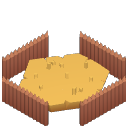
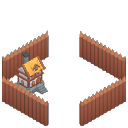
Kara Kale finali, krallık yeniden doğuşu ve güçlenmesi, yavaş ilerleme, inşaat önceliği/iptali, çit onaylı çizim + yönlü çit/kapı, atlı okçu, ağıl
Claude-Session: https://claude.ai/code/session_016v4arUu98FxXGpQTMG1MYt

Changed region(s): [[0.125, 0.4062, 0.875, 0.875]]

diff --git a/js/ui.js b/js/ui.js
@@ -46,7 +46,9 @@ function updHint(){
   $('hinttxt').textContent=(UI.place.mv?d.n+' taşı: yeni yeri seç':UI.place.t==='tc'&&!S.founded?'Köyün kurulacağı yeri seç':d.n+': yeri seç')+(UI.place.x==null?' (haritaya dokun)':'');
   $('hintbtn').innerHTML=btn('✔ Onayla','confirm')+btn('✖ İptal','cancel');
  }else if(UI.road){
-  hn.style.display='block';$('hinttxt').textContent=UI.wall?BT[UI.wall].n+': parmağını sürükleyerek hat çiz, kapı için tek tek dokun (kare başı '+Object.keys(BT[UI.wall].cost).map(k=>RI[k]+BT[UI.wall].cost[k]).join(' ')+')':'Yol: haritada parmağını sürükle (kare başı 1 odun)';$('hintbtn').innerHTML=btn('✖ Bitti','cancel');
+  hn.style.display='block';
+  if(UI.wall){const n=(UI.wsel||[]).length,c=BT.duvar.cost;$('hinttxt').textContent='Çit: parmağınla hattı çiz ('+n+' kare'+(n?' · '+Object.keys(c).map(k=>RI[k]+c[k]*n).join(' '):'')+'). Onaylayınca inşa edilir. Kapı için Yapılar\'dan Kapı seç.';$('hintbtn').innerHTML=btn('✔ İnşa et','wconfirm',null,!n)+btn('↩ Geri al','wundo',null,!n)+btn('✖ Çık','wexit');}
+  else{$('hinttxt').textContent='Yol: haritada parmağını sürükle (kare başı 1 odun)';$('hintbtn').innerHTML=btn('✖ Bitti','cancel');}
  }else hn.style.display='none';
 }
 function selInfo(){
@@ -182,6 +184,7 @@ function pSel(){
  const b=BM.get(UI.sel.id);if(!b)return '';
  const d=BT[b.t];
  let h='<h4>'+d.ic+' '+d.n+(b.done?'':' (inşaat %'+Math.round(b.prog*100)+')')+'</h4><small>'+d.d+'<br>❤ '+Math.ceil(b.hp)+'/'+b.mhp+(b.fire>0?' · 🔥 yanıyor':'')+'</small>';
+ if(b.team==='p'&&!b.done){h+='<div class="row">'+btn(b.pri?'⭐ Öncelik: AÇIK':'☆ Öncelikli inşa et','pri',b.id)+btn('✖ İptal ('+(b.prog<0.02?'tam iade':'%50 iade')+')','cancelb',b.id)+'</div><small>Öncelikli binayı işçiler ve taşıyıcılar diğerlerinden önce yapar.</small>';}
  if(b.team==='p'&&b.done&&(b.t==='oduncu'||b.t==='maden')){
   const jid=b.t==='oduncu'?'lum':'mine',have=jobCount(jid),mine=S.units.filter(u=>u.wb===b.id&&u.job===jid&&!u.dead).length;
   h+='<div>👷 Çalışan: <b>'+mine+'/'+SLOTS[b.t]+'</b> · 📦 Kulübe stoğu: '+Math.round(b.buf||0)+'/'+HUTCAP+' <small>(dolunca işçiler depoya taşır)</small></div>';
@@ -243,10 +246,13 @@ function act(a,v,w,el){
   case 'save':log(saveGame()?'💾 Oyun kaydedildi.':'⛔ Kaydedilemedi.');break;
   case 'found':UI.place={t:'tc',x:null,y:null};{const u=S.units.find(u=>u.team==='p');if(u){UI.place.x=Math.floor(u.x)-1;UI.place.y=Math.floor(u.y)+2;}}UI.tab=null;updPanel(true);updHint();break;
   case 'selall':UI.sel={kind:'u',ids:S.units.filter(u=>u.team==='p').map(u=>u.id)};break;
-  case 'place':if(v==='duvar'||v==='kapi'){UI.wall=v;UI.road=true;UI.place=null;UI.tab=null;updPanel(true);updHint();break;}UI.wall=null;UI.place={t:v,x:null,y:null};UI.road=false;UI.tab=null;updPanel(true);updHint();break;
+  case 'place':if(v==='duvar'){UI.wall=v;UI.road=true;UI.place=null;UI.tab=null;UI.wsel=[];UI.wstack=[];UI.wlx=null;updPanel(true);updHint();break;}UI.wall=null;UI.place={t:v,x:null,y:null};UI.road=false;UI.tab=null;updPanel(true);updHint();break;
   case 'confirm':doConfirm();break;
   case 'move':{const b=BM.get(+v);if(b&&b.done&&b.team==='p'&&b.t!=='tc'){UI.place={t:b.t,mv:b.id,x:b.x,y:b.y};UI.sel=null;UI.tab=null;updPanel(true);updHint();}break;}
-  case 'cancel':UI.place=null;UI.road=false;UI.wall=null;updHint();break;
+  case 'wconfirm':{let n=0,fail=0;for(const k of (UI.wsel||[])){const x=k%MW,y=(k/MW)|0;if(!canPlace('duvar',x,y)){fail++;continue;}if(!afford(BT.duvar.cost)){log('⛔ Kaynak yetersiz, '+(UI.wsel.length-n-fail)+' kare kaldı.');break;}if(placeBuilding('duvar',x,y))n++;}UI.wsel=[];UI.wstack=[];UI.road=false;UI.wall=null;log('🧱 '+n+' çit karesi inşaata başladı.');updHint();updPanel(true);break;}
+  case 'wundo':{const b=(UI.wstack||[]).pop();if(b)UI.wsel=UI.wsel.filter(k=>!b.includes(k));else UI.wsel=[];updHint();break;}
+  case 'wexit':UI.wsel=[];UI.wstack=[];UI.road=false;UI.wall=null;updHint();updPanel(true);break;
+  case 'cancel':UI.place=null;UI.road=false;UI.wall=null;UI.wsel=[];updHint();break;
   case 'road':UI.wall=null;UI.road=true;UI.place=null;UI.tab=null;updPanel(true);updHint();break;
   case 'train':{const b=BM.get(+w)||bestTrainer(v);if(b)enqueue(b,v,1);break;}
   case 'train5':{const b=BM.get(+w)||bestTrainer(v);if(b)enqueue(b,v,5);break;}
@@ -273,6 +279,8 @@ function act(a,v,w,el){
   case 'mk':{const b=BM.get(+v);if(b&&b.t==='demirci'){b.mk=w;log('⚒ Demirhane üretimi: '+({auto:'otomatik',alet:'alet',silah:'silah',zirh:'zırh',off:'durduruldu'})[w]+'.');}updPanel(true);break;}
   case 'ore':{const b=BM.get(+v);if(b&&b.t==='maden'){b.ore=w;for(const u of S.units)if(u.wb===b.id&&u.job==='mine'){u.ti=-1;u.carry=0;u.st='idle';u.path=null;}log('⛏ Madenci kulübesi artık '+RN[w]+' çıkaracak.');}updPanel(true);break;}
   case 'upg':{const b=BM.get(+v);if(b&&UPG[b.t]&&!b.lvl&&UPG[b.t].age<=S.age&&afford(UPG[b.t].cost)){pay(UPG[b.t].cost);b.lvl=1;b.hp=Math.max(b.hp,b.mhp);log('⬆ '+UPG[b.t].n+' tamamlandı.',b.x,b.y);}updPanel(true);break;}
+  case 'pri':{const b=BM.get(+v);if(b){b.pri=!b.pri;}updPanel(true);break;}
+  case 'cancelb':{const b=BM.get(+v);if(b){cancelBuild(b);UI.sel=null;}updPanel(true);break;}
   case 'demolish':{const b=BM.get(+v);if(b){demolish(b);UI.sel=null;}updPanel(true);break;}
  }
  buildBar();updPanel(true);

diff --git a/js/sprites.js b/js/sprites.js
@@ -2,11 +2,11 @@
 // ===== MINIFOLKS SPRITE ANİMASYONLARI (32x32 kareli sayfalar) =====
 // Satırlar: 0 bekle(4), 1 yürü(6), 2 eylem(3: saldırı/çalışma). Atlılarda eylem satırı 3.
 const MF={},MFT=new Map();
-const MFN=['VillagerMan','VillagerWoman','Peasant','Worker','OldMan','OldWoman','NobleMan','NobleWoman','Princess','Queen','SpearMan','SwordMan','ArcherMan','CrossBowMan','HalberdMan','ShieldMan','CavalierMan','HorseMan','KingMan','PrinceMan'];
+const MFN=['VillagerMan','VillagerWoman','Peasant','Worker','OldMan','OldWoman','NobleMan','NobleWoman','Princess','Queen','SpearMan','SwordMan','ArcherMan','MountedArcher','CrossBowMan','HalberdMan','ShieldMan','CavalierMan','HorseMan','KingMan','PrinceMan'];
 MFN.forEach(n=>{const i=new Image();i.src='img/mf/Mini'+n+'.png';MF[n]=i;});
-const MFCNT={KingMan:[4,5,6],CavalierMan:[8,6,3],HorseMan:[8,6,3],PrinceMan:[4,6,5]};
+const MFCNT={MountedArcher:[8,6,3],KingMan:[4,5,6],CavalierMan:[8,6,3],HorseMan:[8,6,3],PrinceMan:[4,6,5]};
 const MFVIL=['VillagerMan','VillagerWoman','Peasant','Worker','VillagerMan','VillagerWoman','OldMan','OldWoman'];
-const MFSOL={mizrakli:'SpearMan',kilic:'SwordMan',okcu:'ArcherMan',atliokcu:'HorseMan',atli:'CavalierMan',top:'HalberdMan'};
+const MFSOL={mizrakli:'SpearMan',kilic:'SwordMan',okcu:'ArcherMan',atliokcu:'MountedArcher',atli:'CavalierMan',top:'HalberdMan'};
 const MFB={haydut:'SwordMan',haydutokcu:'CrossBowMan',haydutatli:'CavalierMan',haydutreis:'ShieldMan'};
 function mfSheet(name,tint,al){
  const im=MF[name];if(!im||!im.complete||!im.naturalWidth)return null;
@@ -58,7 +58,7 @@ drawUnit=function(u){
  if(u.t==='top')return drawCannon(u);
  const lk=mfLook(u),sh=lk?mfSheet(lk[0],lk[1],lk[2]):null;
  if(!sh)return _drawUnitOld(u);
- const name=lk[0],mounted=name==='CavalierMan'||name==='HorseMan';
+ const name=lk[0],mounted=name==='CavalierMan'||name==='HorseMan'||name==='MountedArcher';
  // yön ve hareket
  const dx=u.x-(u.lx==null?u.x:u.lx);if(Math.abs(dx)>0.002)u.fdir=dx<0?-1:1;
  const moved=Math.hypot(dx,u.y-(u.ly==null?u.y:u.ly))>0.002;u.lx=u.x;u.ly=u.y;
@@ -78,14 +78,6 @@ drawUnit=function(u){
  ctx.imageSmoothingEnabled=false;
  ctx.drawImage(sh,fr*32,row*32,32,32,-size/2,0,size,size);
  if(u.fl&&S.t-u.fl<0.15){ctx.globalAlpha=0.4;ctx.fillStyle='#fff';ctx.fillRect(-size*0.2,size*0.35,size*0.4,size*0.55);ctx.globalAlpha=1;}
- if(u.t==='atliokcu'){ // atlı okçu: yay çiz
-  ctx.save();ctx.translate(-size/2,0);ctx.scale(size/32,size/32);
-  const pull=attacking?3:0;
-  ctx.strokeStyle='#5b3a1a';ctx.lineWidth=1.6;ctx.beginPath();ctx.arc(21,15,5.5,-1.15,1.15);ctx.stroke();
-  ctx.strokeStyle='#e8e0c8';ctx.lineWidth=0.7;ctx.beginPath();ctx.moveTo(21+5.5*Math.cos(-1.15),15+5.5*Math.sin(-1.15));ctx.lineTo(21-pull,15);ctx.lineTo(21+5.5*Math.cos(1.15),15+5.5*Math.sin(1.15));ctx.stroke();
-  if(attacking){ctx.strokeStyle='#d8c8a0';ctx.lineWidth=0.9;ctx.beginPath();ctx.moveTo(21-pull,15);ctx.lineTo(29,15);ctx.stroke();}
-  ctx.restore();
- }
  ctx.restore();
  if(u.st==='sleep')ctx.drawImage(spr('💤'),u.x+0.1,u.y-0.9,0.5,0.5);
  if(u.wnd)ctx.drawImage(spr('🩹'),u.x+0.1,u.y-0.9,0.5,0.5);
@@ -93,4 +85,36 @@ drawUnit=function(u){
  if(u.hp<u.mhp){ctx.fillStyle='#000a';ctx.fillRect(u.x-0.3,top-0.05,0.6,0.1);ctx.fillStyle=u.hp/u.mhp>0.4?'#4caf50':'#e53935';ctx.fillRect(u.x-0.3,top-0.05,0.6*u.hp/u.mhp,0.1);}
  if(u.team==='p'&&u.t==='koylu'&&S.founded&&u.job){const j=JOBS.find(j=>j.id===u.job);if(j)ctx.drawImage(spr(j.ic),u.x+0.2,u.y-0.95,0.36,0.36);}
  if(u.carry>0.5)ctx.drawImage(spr('📦'),u.x-0.6,u.y-0.15,0.32,0.32);
+};
+
+// ===== ÇİT / KAPI: komşulara göre yön seçimi =====
+function wallAt(x,y){
+ if(!inMap(x,y))return false;const id=OCC[y*MW+x];if(!id)return false;
+ const o=BM.get(id);return !!(o&&(o.t==='duvar'||o.t==='kapi')&&o.team==='p');
+}
+const _drawBuildingOld=drawBuilding;
+drawBuilding=function(b){
+ if(b.t!=='duvar'&&b.t!=='kapi'){_drawBuildingOld(b);
+  if((b.t==='agil'||b.t==='ahir')&&b.done&&b.team==='p'){
+   const an=b.t==='agil'?['🐑','🐑','🐏']:['🐎','🐄','🐎'],T2=(S.t||0)*0.6+b.id;
+   an.forEach((e,i)=>{const ax=b.x+b.w*(0.55+0.2*Math.sin(T2+i*2.1))-0.17,ay=b.y+b.h*(0.62+0.12*Math.cos(T2*0.8+i*1.7))-0.17;ctx.drawImage(spr(e),ax,ay,0.34,0.34);});
+  }if(b.pri&&!b.done)ctx.drawImage(spr('⭐'),b.x+b.w-0.5,b.y,0.5,0.5);return;}
+ const x=b.x,y=b.y,L=wallAt(x-1,y),R=wallAt(x+1,y),U=wallAt(x,y-1),D=wallAt(x,y+1);
+ let tags=[];
+ if(L||R)tags.push('h');
+ if(U||D){if(b.t==='kapi'&&tags.length===0)tags.push('v');else if(b.t!=='kapi')tags.push('v');}
+ if(!tags.length){
+  const a=wallAt(x-1,y-1),c=wallAt(x+1,y+1),e=wallAt(x+1,y-1),f=wallAt(x-1,y+1);
+  if(a||c)tags.push('d1');else if(e||f)tags.push('d2');else tags.push('h');
+ }
+ ctx.globalAlpha=b.done?1:0.5;
+ for(const tg of tags){
+  const im=img('s_'+b.t+'_'+tg);
+  if(im)ctx.drawImage(im,x-0.125,y-0.125,1.25,1.25);
+  else{ctx.fillStyle='#8a5a2a';ctx.fillRect(x+0.1,y+0.1,0.8,0.8);}
+ }
+ ctx.globalAlpha=1;
+ if(b.team==='p'){ctx.fillStyle=TEAMCOL.p;ctx.fillRect(x+0.04,y+0.04,0.16,0.16);}
+ if(b.pri){ctx.drawImage(spr('⭐'),x,y,0.45,0.45);}
+ if(!b.done){ctx.fillStyle='#000a';ctx.fillRect(x+0.1,y+0.8,0.8,0.14);ctx.fillStyle='#ffd23c';ctx.fillRect(x+0.1,y+0.8,0.8*b.prog,0.14);}
 };

diff --git a/js/story.js b/js/story.js
@@ -10,11 +10,35 @@ const BEATS=[
  {id:'k1',ok:()=>S.kings.some(k=>k.pact),t:'🕊 Komşuların Gözü',x:'Elçilik sayesinde komşu krallıklarla yazışıyorsun. Bertram uyarıyor: "Maldric onlara da elçi gönderdi. Kimi korkutacak, kimi satın alacak. Dostlarını hediyelerle ve sözünle yanında tut."',b:[{t:'Anladım'}]},
  {id:'r2',ok:()=>S.rank>=2,t:'🦅 Maldric\'in Elçisi',x:'Şehir ilan edince Maldric\'in elçisi kapıda: "Lord Maldric büyük gönüllüdür. Tacı bırakıp sessiz bir ömür sürmeni ister. Karşılığında 400 altın ve dokunulmazlık."',b:[{t:'Reddet — "Aldora\'nın varisi pazarlık yapmaz"',fn:()=>{S.sf.refused=1;S.happy=Math.min(100,S.happy+8);log('🔥 Elçi öfkeyle ayrıldı. Maldric\'in gazabı yaklaşıyor.');S.raidAt=Math.min(S.raidAt,S.day+3);}},{t:'Kabul et (+400 💰, halk küsüyor)',fn:()=>{addRes('gold',400);S.happy=Math.max(0,S.happy-18);S.sf.bribed=1;log('💰 Altın aldın ama halkın gözünde değerin düştü.');}}]},
  {id:'a3',ok:()=>S.age>=3,t:'🌑 Karanlık Bir Haber',x:'Orta Çağ\'a girdin ve gece nöbetçileri dağlardan gelen meşaleleri sayıyor. Casuslar fısıldıyor: "Maldric büyük bir ordu topluyor. Hedefi Aldora\'yı geri alan değil, onu doğuran köy."\nSurlarını sağlamlaştır, kapıları kapat; kapılar yalnızca halkın için açılır.',b:[{t:'Hazırlan'}]},
- {id:'l3',ok:()=>S.rank>=3,t:'🏰 Aldora\'nın Halkı',x:'Lordluk ilan edilince haber Aldora\'ya ulaştı. Maldric\'in zulmünden kaçan yüzlerce kişi yollara düştü. Dağın ardından uzun bir kafile geliyor: "Tacın sahibi yaşıyor!"',b:[{t:'Kapıları aç',fn:()=>{const tc=mainTC();if(tc){for(let i=0;i<6;i++){const p=spawnPos(tc);mkUnit('koylu','p',p.x,p.y,{});}}S.happy=Math.min(100,S.happy+6);log('👨👩👧 Aldora\'dan 6 kişi köye sığındı.');}}]},
+ {id:'l3',ok:()=>S.rank>=3,t:'🏰 Aldora\'nın Halkı',x:'Lordluk ilan edilince haber Aldora\'ya ulaştı. Maldric\'in zulmünden kaçan yüzlerce kişi yollara düştü. Dağın ardından uzun bir kafile geliyor: "Tacın sahibi yaşıyor!"',b:[{t:'Kapıları aç',fn:()=>{const tc=mainTC();if(tc){for(let i=0;i<6;i++){const p=spawnPos(tc);mkUnit('koylu','p',p.x,p.y,{});}}S.happy=Math.min(100,S.happy+6);log('👨👩👧 Aldora\'dan 6 kişi köye sığındı.');spawnFortress();if(S.sf.fort)log('🏯 Gözcüler haritanın uzak köşesinde Maldric\'in Kara Kale\'sini buldu!',S.sf.fort.x,S.sf.fort.y);}}]},
  {id:'b4',ok:()=>S.age>=4,t:'💥 Barut Çağı',x:'Ateş tozu savaşın yüzünü değiştiriyor. Bertram yaşlı gözleriyle toplara bakıyor: "Babanın surları kılıçlara karşı yapılmıştı. Maldric\'in kaleleri şimdi senin toplarının önünde duracak."',b:[{t:'Toplar hazır'}]},
- {id:'f5',ok:()=>S.rank>=4,t:'👑 Taç Senin',x:'Halk meydanda toplandı. Bertram, gözyaşları içinde babanın yüzüğünü uzatıyor: "Aldora ölmedi... Aldora sensin."\nMaldric\'in gölgesi toprağını terk etti; haydut yuvaları sönüyor. Artık sen hem bir hükümdar hem de yeni bir hanedanın atasısın.\nKrallığın yolu bitti, ama krallığın hikayesi yeni başlıyor.',b:[{t:'Sonsuza dek yaşasın krallık!',fn:()=>{addRes('gold',500);S.happy=Math.min(100,S.happy+10);}}]}
+ {id:'f5',ok:()=>S.rank>=4,t:'👑 Krallık İlanı',x:'Halk meydanda toplandı. Bertram, gözyaşları içinde babanın yüzüğünü uzatıyor: "Aldora ölmedi... Aldora sensin."\nAma Maldric hâlâ Kara Kale\'de oturuyor ve uzak köşedeki surlarının ardında yeni bir ordu topluyor. Taç ancak o kale düşünce tamamen senin olur.',b:[{t:'Kara Kale\'ye yürüyeceğiz',fn:()=>{addRes('gold',500);S.happy=Math.min(100,S.happy+10);if(S.sf.fort)focusTile&&focusTile(S.sf.fort.x,S.sf.fort.y);}}]}
 ];
+function spawnFortress(){
+ S.sf=S.sf||{};if(S.sf.fort)return;
+ const st=S.start;
+ const cands=[[22,22],[MW-27,22],[22,MH-27],[MW-27,MH-27]].map(([x,y])=>({x,y,d:Math.hypot(x-st.x,y-st.y)})).sort((a,b)=>b.d-a.d);
+ for(const c of cands){
+  for(let dy=-4;dy<=8;dy++)for(let dx=-4;dx<=8;dx++){const X=c.x+dx,Y=c.y+dy;if(inMap(X,Y)&&OCC[Y*MW+X]===0&&T[Y*MW+X]!==0){T[Y*MW+X]=0;RA[Y*MW+X]=0;}}
+  if(!walkRect(c.x,c.y,4,4))continue;
+  const b=mkB('karakale','b',c.x,c.y,true);
+  S.sf.fort={x:c.x,y:c.y,id:b.id};
+  const mk=(t,n,r)=>{for(let k=0;k<n;k++){const u=mkUnit(t,'b',c.x+0.5+(k%5)*0.9-1.5,c.y+5.2+r+(k/5|0)*0.9,{guard:1,hx:c.x+2,hy:c.y+6,st:'idle'});u.hp=u.mhp=Math.round(u.mhp*1.5);}};
+  mk('haydutreis',8,0);mk('haydutokcu',6,1.5);mk('haydutatli',3,3);
+  revealC(c.x+2,c.y+2,10);
+  return true;
+ }
+ return false;
+}
+function fortDay(){
+ const f=S.sf&&S.sf.fort;if(!f||S.sf.maldricDead)return;
+ const b=BM.get(f.id);if(!b)return;
+ const g=S.units.filter(u=>u.team==='b'&&!u.dead&&Math.hypot(u.x-f.x,u.y-f.y)<14).length;
+ if(g<14&&S.day%3===0)for(let k=0;k<2;k++){const u=mkUnit(k?'haydutokcu':'haydutreis','b',f.x+1+k,f.y+5,{guard:1,hx:f.x+2,hy:f.y+6,st:'idle'});u.hp=u.mhp=Math.round(u.mhp*1.5);}
+}
 function storyCheck(){
+ if(S&&S.founded&&S.rank>=3&&!(S.sf&&S.sf.fort))spawnFortress();
+ fortDay();
  if(!S||!S.founded)return;
  S.sf=S.sf||{};
  for(const b of BEATS){

diff --git a/js/data.js b/js/data.js
@@ -56,6 +56,7 @@ const BT={
  hastane:{n:'Hastane',ic:'🏥',w:3,h:3,hp:260,age:2,cost:{wood:120,stone:120,gold:40},time:24,col:'#d8d8d8',d:'Şifacılar yaralıları iyileştirir, salgında can kaybını azaltır.'},
  elcilik:{n:'Elçilik',ic:'🕊',w:3,h:3,hp:260,age:1,cost:{wood:120,stone:100,gold:50},time:24,col:'#5b7fb0',d:'Komşu krallarla diplomasi yapmanı sağlar.'},
  saray:{n:'Saray',ic:'👑',w:4,h:4,hp:1000,age:3,rank:3,cost:{stone:500,gold:300,wood:300},time:60,pop:20,col:'#c9a227',d:'Krallık ünvanı için gerekli.'},
+ karakale:{n:'Kara Kale',ic:'🏯',w:4,h:4,hp:6000,arm:1,cost:{},time:0,col:'#3a1a1a',enemy:1,d:'Lord Maldric\'in son kalesi. Yıkılırsa tahtın gerçek sahibi sen olursun.'},
  tent:{n:'Haydut Çadırı',ic:'⛺',w:2,h:2,hp:220,cost:{},time:0,col:'#6a2a2a',enemy:1},
  ktc:{n:'Krallık Merkezi',ic:'🏰',w:4,h:4,hp:1,col:'#777',decor:1},
  ftc:{n:'Krallık Merkezi',ic:'🏰',w:4,h:4,hp:1800,col:'#777',foreign:1},
@@ -130,6 +131,9 @@ const RANKREQ=[null,
  {houses:28,pop:80,age:3,b:['kale','elcilik'],reward:{gold:500,stone:300}},
  {houses:42,pop:120,age:3,b:['saray'],reward:{gold:1000}}
 ];
+// ilerleme yavaşlatma (oyun uzasın)
+AGEUP.forEach(a=>{if(!a)return;a.time=Math.round(a.time*1.5);a.pop=Math.round(a.pop*1.25);a.houses=Math.round(a.houses*1.2);for(const k in a.cost)a.cost[k]=Math.round(a.cost[k]*1.35);});
+RANKREQ.forEach(r=>{if(!r)return;r.pop=Math.round(r.pop*1.25);r.houses=Math.round(r.houses*1.2);});
 const KINGS=[
  {n:'Kuzey Lordluğu',who:'Lord Aldric',x:112,y:24,pers:'bilge',col:'#4a7fd0',d:'Bilge ve temkinli bir lord.',fam:['Leydi Mirel','Lord Cedric']},
  {n:'Doğu Krallığı',who:'Kral Maran',x:200,y:112,pers:'savasci',col:'#d04a4a',d:'Savaşçı, kolay öfkelenir.',fam:['Prenses Valeria','Prens Borin']},
@@ -158,5 +162,6 @@ const STORY=[
  {ch:'Bölüm 6 — Orta Çağ',t:"Orta Çağ'a geç ve bir komşuyla ittifak kur.",ok:()=>S.age>=3&&S.kings.some(k=>k.pact==='ittifak'),r:{gold:250},m:'Dostların çoğaldı, düşmanların saygı duymaya başladı.'},
  {t:'"Lordluk" ünvanını kazan.',ok:()=>S.rank>=3,r:{gold:400},m:'Artık topraklarının efendisisin.'},
  {t:'Nüfusunu 100\'e çıkar.',ok:()=>popNow()>=100,r:{gold:300,food:300},m:'Yüz kişi... Bir zamanlar küçücük bir kafile olan halkın artık bir şehir kadar kalabalık.'},
- {ch:'Final — Taç',t:'Krallığını ilan et: "Krallık" ünvanına yüksel.',ok:()=>S.rank>=4,m:'Taç giydin. Sürgünden krallığa uzanan yol tamamlandı! Hanedanın tarihe geçti.'}
+ {ch:'Final — Taç',t:'Krallığını ilan et: "Krallık" ünvanına yüksel.',ok:()=>S.rank>=4,m:'Taç giydin ama Maldric hâlâ ayakta...'},
+ {ch:'Son — Kara Kale',t:'Haritanın uzak köşesindeki Maldric\'in Kara Kale\'sini yık. Güçlü bir ordu ve toplar getir!',ok:()=>S.sf&&S.sf.maldricDead,m:'Maldric düştü, taç sonunda gerçek sahibinde. Aldora yeniden doğdu!'}
 ];

diff --git a/js/render.js b/js/render.js
@@ -12,7 +12,7 @@ function spr(g){
 const IMGS={};
 (function(){
  const names=['e_deco05','e_deco07','e_deco13','e_deco14','t_grass1','t_grass2','t_water1','t_water2','t_snow1','t_snow2','t_road','e_tree1','e_tree2','e_tree3','e_tree4','e_stone','e_iron','e_gold','e_berry','e_fire'];
- Object.keys(BT).forEach(k=>names.push('s_'+k));
+ Object.keys(BT).forEach(k=>{if(k!=='duvar'&&k!=='kapi')names.push('s_'+k);});['duvar','kapi'].forEach(k=>['h','v','d1','d2'].forEach(t=>names.push('s_'+k+'_'+t)));
  [1,2,3,4,7,8,9,10,13,14,15,19,20,21,23].forEach(n=>names.push('u'+String(n).padStart(2,'0')));
  names.forEach(n=>{const i=new Image();i.src='img/'+n+'.png';IMGS[n]=i;});
 })();
@@ -145,6 +145,8 @@ function draw(){
   else if(f.k==='rubble'){ctx.globalAlpha=a;ctx.fillStyle='#555';ctx.beginPath();ctx.arc(f.x,f.y,1.2*(1-a)+0.4,0,6.3);ctx.fill();ctx.globalAlpha=1;}
   else if(f.k==='poof'){ctx.globalAlpha=a;ctx.fillStyle='#fff';ctx.beginPath();ctx.arc(f.x,f.y,(1-a)*1.2,0,6.3);ctx.fill();ctx.globalAlpha=1;}
  }
+ // çit önizlemesi
+ if(UI.wall&&UI.wsel){const im=img('s_duvar_h');ctx.globalAlpha=0.55;for(const k of UI.wsel){const x=k%MW,y=(k/MW)|0;ctx.fillStyle='#4caf50';ctx.fillRect(x+0.05,y+0.05,0.9,0.9);if(im)ctx.drawImage(im,x-0.125,y-0.125,1.25,1.25);}ctx.globalAlpha=1;}
  // yerleştirme hayaleti
  const P=UI.place;
  if(P&&P.x!=null){
@@ -156,6 +158,7 @@ function draw(){
  }
  // etiketler
  KINGS.forEach((k,i)=>{if(S.kings[i].dead||fogAt(k.x,k.y)===0)return;const kk=S.kings[i];const st=kk.war?'⚔':kk.pact==='ittifak'?'🤝':kk.pact?'📜':'';text(k.n+' '+st,k.x,k.y-3.2,12,'#fff');});
+ if(S.sf&&S.sf.fort&&!S.sf.maldricDead&&fogAt(S.sf.fort.x,S.sf.fort.y)>=1)text('Kara Kale',S.sf.fort.x+2,S.sf.fort.y-0.4,13,'#ff5252');
  S.camps.forEach(c=>{if(c.alive&&fogAt(c.x,c.y)>=1&&c.x>=xa-2&&c.x<=xb+2&&c.y>=ya-2&&c.y<=yb+2)text('Haydut Kampı',c.x+1,c.y-0.4,11,'#ff8a80');});
  // gece ışıkları
  {const td=(S.t%DAY)/DAY;if(td>0.78||td<0.06){ctx.globalCompositeOperation='lighter';for(const b of S.blds){if(!b.done||!LIGHT[b.t]||!vis(b))continue;const g=ctx.createRadialGradient(b.x+b.w/2,b.y+b.h/2,0.1,b.x+b.w/2,b.y+b.h/2,2.2);g.addColorStop(0,'rgba(255,200,90,0.35)');g.addColorStop(1,'rgba(255,200,90,0)');ctx.fillStyle=g;ctx.fillRect(b.x-2,b.y-2,b.w+4,b.h+4);}ctx.globalCompositeOperation='source-over';}}

diff --git a/js/sim.js b/js/sim.js
@@ -116,7 +116,7 @@ function pactCount(){let n=0;S.kings.forEach(k=>{if(k.pact)n++;});return n;}
 function startResearch(id){
  const t=TECH[id];
  if(!t||S.techs[id]||S.research||t.age>S.age||!afford(t.cost)||(t.req&&!t.req.every(r=>S.techs[r])))return false;
- pay(t.cost);S.research={id,left:t.time};return true;
+ pay(t.cost);S.research={id,left:Math.round(t.time*1.5)};return true;
 }
 function ageInfo(){
  const n=S.age+1;if(n>=AGES.length)return null;
@@ -216,7 +216,8 @@ function canPlace(t,x,y){
  if(!inMap(x,y)||!inMap(x+d.w-1,y+d.h-1))return false;
  for(let dy=0;dy<d.h;dy++)for(let dx=0;dx<d.w;dx++){
   const i=(y+dy)*MW+x+dx;
-  if(T[i]!==0||OCC[i]!==0||FOG[i]===0)return false;
+  if(T[i]!==0||FOG[i]===0)return false;
+  if(OCC[i]!==0&&!(t==='kapi'&&BM.get(OCC[i])&&BM.get(OCC[i]).t==='duvar'&&BM.get(OCC[i]).team==='p'))return false;
  }
  // köylüleri/yolu kapalı bir boşluğa hapsetmesin
  if(S.founded&&!d.decor&&t!=='duvar'&&t!=='kapi'){
@@ -251,6 +252,7 @@ function placeBuilding(t,x,y){
  if(placeReason(t)||!canPlace(t,x,y))return false;
  if(!afford(d.cost)){log('⛔ Kaynak yetersiz.');return false;}
  pay(d.cost);
+ if(t==='kapi'){const w=BM.get(OCC[y*MW+x]);if(w&&w.t==='duvar'){for(const k in BT.duvar.cost)addRes(k,BT.duvar.cost[k]);const q=S.blds.indexOf(w);if(q>=0)S.blds.splice(q,1);BM.delete(w.id);fillOcc(w,0);}}
  const b=mkB(t,'p',x,y,t==='tc',t==='ev'?{fam:pick(MNAMES.concat(FNAMES))}:{});
  if(!b.done){b.need=(d.cost.wood||0)+(d.cost.stone||0)+(d.cost.iron||0);b.mat=0;}
  if(t==='maden')b.ore='stone';
@@ -281,6 +283,16 @@ function foundVillage(x,y){
  log('🏛 Köyünü kurdun! Önce ev ve depo inşa et, sonra halkı görevlendir.');
  balanceJobs();
  return true;
+}
+function cancelBuild(b){
+ if(!b||b.team!=='p'||b.done)return;
+ const f=b.prog<0.02?1:0.5,d=BT[b.t];
+ for(const k in d.cost)addRes(k,Math.floor(d.cost[k]*f));
+ const q=S.blds.indexOf(b);if(q>=0)S.blds.splice(q,1);
+ BM.delete(b.id);fillOcc(b,0);
+ for(const u of S.units)if(u.sb===b.id&&u.team==='p'){u.st='idle';u.path=null;u.sb=0;}
+ FX.push({k:'poof',x:b.x+b.w/2,y:b.y+b.h/2,t:0.5,T:0.5});
+ log('✖ '+d.n+' inşaatı iptal edildi'+(f<1?' (iade %50)':' (tam iade)')+'.');
 }
 function demolish(b){
  if(b.team!=='p'||b.t==='tc')return;

diff --git a/js/units.js b/js/units.js
@@ -61,7 +61,7 @@ function freeSlotBuilding(u,bt){
 }
 function haulSite(u){
  let best=null,bd=1e9;
- for(const b of S.blds){if(b.team!=='p'||b.done||!b.need||(b.mat||0)>=b.need-0.5)continue;const d=dEnt(u,b);if(d<bd){bd=d;best=b;}}
+ for(const b of S.blds){if(b.team!=='p'||b.done||!b.need||(b.mat||0)>=b.need-0.5)continue;const d=dEnt(u,b)-(b.pri?1e6:0);if(d<bd){bd=d;best=b;}}
  return best;
 }
 function haulStart(u){
@@ -101,7 +101,7 @@ function startJob(u){
   if(r===0){UNRE[i]=S.t+40;u.ti=-1;u.wait=0.2;return;}
   u.st='toRes';
  }else if(j==='build'){
-  let s=nearestB(u,b=>b.team==='p'&&!b.done);
+  let s=nearestB(u,b=>b.team==='p'&&!b.done&&b.pri)||nearestB(u,b=>b.team==='p'&&!b.done);
   if(!s)s=nearestB(u,b=>b.team==='p'&&b.done&&b.hp<b.mhp*0.9&&!b.decor);
   if(!s){u.wait=1.5;return;}
   u.sb=s.id;
@@ -247,7 +247,7 @@ function finishB(b){
 
 // ---------- savaş ----------
 function dmgOf(a,e){
- const d=UT[a.t];let atk=d.atk+(a.atkB||0);
+ const d=UT[a.t];let atk=(d.atk+(a.atkB||0))*(a.ds?1+(a.ds-1)*0.6:1);
  if(a.team==='p'||a.team==='a'){atk*=fxm('atk');if(!d.hero&&S.units.some(h=>h.t==='kahraman'&&!h.dead&&Math.abs(h.x-a.x)<7&&Math.abs(h.y-a.y)<7))atk*=1.15;}
  if(e.w){
   if(!d.siege)atk*=0.45;
@@ -276,7 +276,11 @@ function destroyB(b,a){
  const k=S.blds.indexOf(b);if(k>=0)S.blds.splice(k,1);
  BM.delete(b.id);fillOcc(b,0);
  FX.push({k:'rubble',x:b.x+b.w/2,y:b.y+b.h/2,t:2,T:2});
- if(b.t==='tent'){
+ if(b.t==='karakale'){
+  S.sf=S.sf||{};S.sf.maldricDead=1;
+  if(a&&(a.team==='p'||a.team==='a')){addRes('gold',1500);}
+  showModal('🏆 Zafer! Kara Kale Düştü','Kara Kale yıkıldı ve Lord Maldric\'in bayrağı sökülüp ateşe verildi. Aldora\'nın halkı sokaklarda sevinç çığlıkları atıyor.\n\nBertram titreyen elleriyle babanın yüzüğünü parmağına geçiriyor: "Taç artık gerçekten senin."\n\nOyunu tamamladın! İstersen krallığını yönetmeye devam edebilirsin: komşu krallıklar, ticaret ve yeni tehditler seni bekliyor. (+1500 altın)',[{t:'Krallığa devam'}]);
+ }else if(b.t==='tent'){
   const c=S.camps.find(c=>c.tent===b.id);
   if(c){
    c.alive=false;

diff --git a/js/input.js b/js/input.js
@@ -20,7 +20,7 @@ cv.addEventListener('pointerdown',e=>{
  cv.setPointerCapture(e.pointerId);
  if(UI.box&&e.isPrimary&&!UI.place&&!UI.road){boxS={x:e.clientX,y:e.clientY};const r=$('selrect');r.style.display='block';r.style.left=e.clientX+'px';r.style.top=e.clientY+'px';r.style.width='0';r.style.height='0';return;}
  ptr.set(e.pointerId,{x:e.clientX,y:e.clientY});
- if(ptr.size===1){tapInfo={x:e.clientX,y:e.clientY,t:performance.now(),moved:false};painting=!!UI.road;if(painting)paintRoad(e.clientX,e.clientY);}
+ if(ptr.size===1){tapInfo={x:e.clientX,y:e.clientY,t:performance.now(),moved:false};painting=!!UI.road;if(painting){if(UI.wall){UI.wlx=null;UI.wbatch=[];(UI.wstack=UI.wstack||[]).push(UI.wbatch);}paintRoad(e.clientX,e.clientY);}}
  else{tapInfo=null;painting=false;const p=[...ptr.values()];pinch=Math.hypot(p[0].x-p[1].x,p[0].y-p[1].y);}
 });
 cv.addEventListener('pointermove',e=>{
@@ -57,9 +57,15 @@ function paintRoad(px,py){
  const t=toTile(px,py),x=Math.floor(t.x),y=Math.floor(t.y);
  if(!inMap(x,y))return;
  if(UI.wall){
-  const wt=UI.wall;if(!S.founded||OCC[y*MW+x]||!canPlace(wt,x,y))return;
-  if(!afford(BT[wt].cost)){log('⛔ Kaynak yetersiz.');painting=false;return;}
-  placeBuilding(wt,x,y);return;
+  if(!S.founded)return;
+  UI.wsel=UI.wsel||[];
+  let pts=[[x,y]];
+  if(UI.wlx!=null&&(Math.abs(x-UI.wlx)>1||Math.abs(y-UI.wly)>1)){
+   pts=[];const n=Math.max(Math.abs(x-UI.wlx),Math.abs(y-UI.wly));
+   for(let i=1;i<=n;i++)pts.push([Math.round(UI.wlx+(x-UI.wlx)*i/n),Math.round(UI.wly+(y-UI.wly)*i/n)]);
+  }
+  for(const [px,py] of pts){const k=py*MW+px;if(!inMap(px,py)||OCC[k]||UI.wsel.includes(k)||!canPlace('duvar',px,py))continue;UI.wsel.push(k);if(UI.wbatch)UI.wbatch.push(k);}
+  UI.wlx=x;UI.wly=y;updHint();return;
  }
  const i=y*MW+x;
  if(ROAD[i]||T[i]===1||OCC[i]||(T[i]>=3&&T[i]<=5))return;

diff --git a/js/kingdoms.js b/js/kingdoms.js
@@ -91,12 +91,12 @@ function killKingdom(i){
 function reviveKingdom(i){
  const k=S.kings[i],K=KINGS[i];
  kInit(i);k.rel=10;k.pact=null;k.war=false;k.cool=0;
- showModal('👑 Yeni krallık','Haydutların yıktığı '+K.n+' küllerinden doğdu: hayatta kalanlar toplanıp yeni bir hanedan kurdu ('+K.who+' ailesinden biri tahta çıktı). Yeni komşuyla ilişkiler sıfırdan başlıyor.',[{t:'Hayırlı olsun'}]);
+ showModal('👑 Yeni krallık','Yıkılan '+K.n+' küllerinden doğdu: hayatta kalanlar toplanıp yeni bir hanedan kurdu ('+K.who+' ailesinden biri tahta çıktı). Yeni komşuyla ilişkiler sıfırdan başlıyor.',[{t:'Hayırlı olsun'}]);
 }
 function kingdomsDay(){
- if(aliveKings()<3){
-  const c=S.kings.map((k,i)=>({k,i})).filter(o=>o.k.dead&&o.k.fall==='b'&&S.day-o.k.deadDay>=12);
-  if(c.length&&Math.random()<0.4)reviveKingdom(c[0].i);
+ if(aliveKings()<4){
+  const c=S.kings.map((k,i)=>({k,i})).filter(o=>o.k.dead&&S.day-o.k.deadDay>=(o.k.fall==='b'?12:16));
+  if(c.length&&Math.random()<0.45)reviveKingdom(c[0].i);
  }
  KINGS.forEach((K,i)=>{
   const kd=kdOf(i),k=S.kings[i];

diff --git a/js/core.js b/js/core.js
@@ -113,6 +113,7 @@ function nearestEnemy(u,r,unitsOnly){
 function mkUnit(t,team,x,y,extra){
  const d=UT[t];
  const u=Object.assign({id:S.nid++,t,team,x,y,hp:d.hp,mhp:d.hp,job:null,st:'idle',path:null,pi:0,tg:0,cd:0,carry:0,rp:0,scan:Math.random()*0.5,flee:0,wait:Math.random()*0.5,ti:-1,wb:0,sb:0,tm:0,fs:0},extra||{});
+ if((team==='k'||team==='f')&&d.atk&&S.day){const m=1+Math.min(1.3,S.day/220)+0.12*(S.rank||0);u.hp=u.mhp=Math.round(d.hp*m);u.ds=m;}
  S.units.push(u);UM.set(u.id,u);return u;
 }
 function fillOcc(b,v){const g=BT[b.t]&&BT[b.t].gate;for(let dy=0;dy<b.h;dy++)for(let dx=0;dx<b.w;dx++){const x=b.x+dx,y=b.y+dy;if(inMap(x,y))GATE[y*MW+x]=(v&&g)?1:0;}for(let dy=0;dy<b.h;dy++)for(let dx=0;dx<b.w;dx++){const x=b.x+dx,y=b.y+dy;if(inMap(x,y))OCC[y*MW+x]=v;}}
